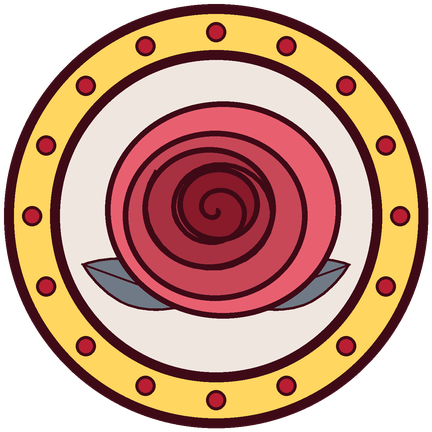
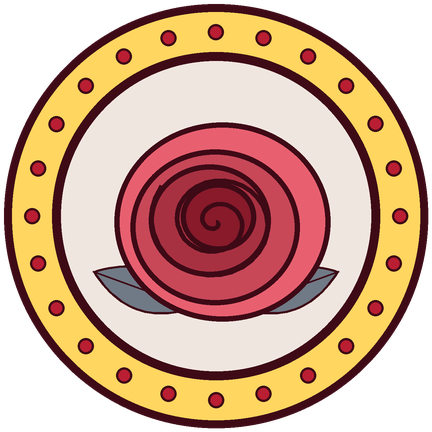
Added sub badges

Changed region(s): [[0.0301, 0.0301, 0.9931, 0.9931]]

diff --git a/index.html b/index.html
@@ -1634,7 +1634,7 @@
 </head>
 <body>
 
-    <nav class="nav" aria-label="Main"><a href="index.html?v=ba89ef8c" aria-current="page">Portfolio</a><a href="usefultools.html?v=ba89ef8c">SeviathsUsefultools</a><a href="seviathstudio.html?v=ba89ef8c">Seviathstudio</a><a href="contacts.html?v=ba89ef8c">Contacts</a></nav>
+    <nav class="nav" aria-label="Main"><a href="index.html?v=a8d3c586" aria-current="page">Portfolio</a><a href="usefultools.html?v=a8d3c586">SeviathsUsefultools</a><a href="seviathstudio.html?v=a8d3c586">Seviathstudio</a><a href="contacts.html?v=a8d3c586">Contacts</a></nav>
 
     <main>
     <header class="hero">
@@ -1733,19 +1733,19 @@
     </div>
         <h3 class="gallery-title">Sub badges</h3>
         <div class="btn-grid">
-      <a class="proj-btn" href="images/twitch/Badges/base_432.png?v=6c8d9ad4" target="_blank" rel="noopener" title="Twitch subscriber badge: Base">Base</a>
-      <a class="proj-btn" href="images/twitch/Badges/2month_432.png?v=eb4caa83" target="_blank" rel="noopener" title="Twitch subscriber badge: 2 month">2 month</a>
-      <a class="proj-btn" href="images/twitch/Badges/3month_432.png?v=aec6b6cf" target="_blank" rel="noopener" title="Twitch subscriber badge: 3 month">3 month</a>
-      <a class="proj-btn" href="images/twitch/Badges/6month_432.png?v=4ee6b80d" target="_blank" rel="noopener" title="Twitch subscriber badge: 6 month">6 month</a>
-      <a class="proj-btn" href="images/twitch/Badges/9month_432.png?v=30346091" target="_blank" rel="noopener" title="Twitch subscriber badge: 9 month">9 month</a>
-      <a class="proj-btn" href="images/twitch/Badges/1year_432.png?v=907eb1c7" target="_blank" rel="noopener" title="Twitch subscriber badge: 1 year">1 year</a>
-      <a class="proj-btn" href="images/twitch/Badges/1_5year_432.png?v=0ede84ff" target="_blank" rel="noopener" title="Twitch subscriber badge: 1.5 year">1.5 year</a>
-      <a class="proj-btn" href="images/twitch/Badges/2year_432.png?v=b0b39e03" target="_blank" rel="noopener" title="Twitch subscriber badge: 2 year">2 year</a>
-      <a class="proj-btn" href="images/twitch/Badges/2_5year_432.png?v=aa414f40" target="_blank" rel="noopener" title="Twitch subscriber badge: 2.5 year">2.5 year</a>
-      <a class="proj-btn" href="images/twitch/Badges/3year_432.png?v=bfcd1a55" target="_blank" rel="noopener" title="Twitch subscriber badge: 3 year">3 year</a>
-      <a class="proj-btn" href="images/twitch/Badges/3_5year_432.png?v=1e58b2a6" target="_blank" rel="noopener" title="Twitch subscriber badge: 3.5 year">3.5 year</a>
-      <a class="proj-btn" href="images/twitch/Badges/4year_432.png?v=b16e611a" target="_blank" rel="noopener" title="Twitch subscriber badge: 4 year">4 year</a>
-      <a class="proj-btn" href="images/twitch/Badges/4_5year_432.png?v=f5512eb8" target="_blank" rel="noopener" title="Twitch subscriber badge: 4.5 year">4.5 year</a>
+      <a class="proj-btn" href="images/twitch/Badges/base_432.png?v=bd57e97c" target="_blank" rel="noopener" title="Twitch subscriber badge: Base">Base</a>
+      <a class="proj-btn" href="images/twitch/Badges/2month_432.png?v=2ace9a87" target="_blank" rel="noopener" title="Twitch subscriber badge: 2 month">2 month</a>
+      <a class="proj-btn" href="images/twitch/Badges/3month_432.png?v=33b65604" target="_blank" rel="noopener" title="Twitch subscriber badge: 3 month">3 month</a>
+      <a class="proj-btn" href="images/twitch/Badges/6month_432.png?v=35d747e4" target="_blank" rel="noopener" title="Twitch subscriber badge: 6 month">6 month</a>
+      <a class="proj-btn" href="images/twitch/Badges/9month_432.png?v=272ed4e0" target="_blank" rel="noopener" title="Twitch subscriber badge: 9 month">9 month</a>
+      <a class="proj-btn" href="images/twitch/Badges/1year_432.png?v=3a0d2492" target="_blank" rel="noopener" title="Twitch subscriber badge: 1 year">1 year</a>
+      <a class="proj-btn" href="images/twitch/Badges/1_5year_432.png?v=70b6e759" target="_blank" rel="noopener" title="Twitch subscriber badge: 1.5 year">1.5 year</a>
+      <a class="proj-btn" href="images/twitch/Badges/2year_432.png?v=bb0c9e7e" target="_blank" rel="noopener" title="Twitch subscriber badge: 2 year">2 year</a>
+      <a class="proj-btn" href="images/twitch/Badges/2_5year_432.png?v=73f71535" target="_blank" rel="noopener" title="Twitch subscriber badge: 2.5 year">2.5 year</a>
+      <a class="proj-btn" href="images/twitch/Badges/3year_432.png?v=73f71535" target="_blank" rel="noopener" title="Twitch subscriber badge: 3 year">3 year</a>
+      <a class="proj-btn" href="images/twitch/Badges/3_5year_432.png?v=0bc9ffaf" target="_blank" rel="noopener" title="Twitch subscriber badge: 3.5 year">3.5 year</a>
+      <a class="proj-btn" href="images/twitch/Badges/4year_432.png?v=301eaa33" target="_blank" rel="noopener" title="Twitch subscriber badge: 4 year">4 year</a>
+      <a class="proj-btn" href="images/twitch/Badges/4_5year_432.png?v=e26e3e9c" target="_blank" rel="noopener" title="Twitch subscriber badge: 4.5 year">4.5 year</a>
       <a class="proj-btn" href="images/twitch/Purple/Badges/1year_432.png?v=0a2b365b" target="_blank" rel="noopener" title="Twitch subscriber badge: Purple 1 year">Purple 1 year</a>
       <a class="proj-btn" href="images/twitch/Purple/Badges/2year_432.png?v=db5a9d3b" target="_blank" rel="noopener" title="Twitch subscriber badge: Purple 2 year">Purple 2 year</a>
       <a class="proj-btn" href="images/twitch/Purple/Badges/3month_432.png?v=433016d0" target="_blank" rel="noopener" title="Twitch subscriber badge: Purple 3 month">Purple 3 month</a>
@@ -1863,7 +1863,7 @@
     </section>
     </main>
 
-    <footer class="footer">&copy; Santa Madara Neilande &middot; <a href="contacts.html?v=ba89ef8c">Contacts</a></footer>
+    <footer class="footer">&copy; Santa Madara Neilande &middot; <a href="contacts.html?v=a8d3c586">Contacts</a></footer>
 
 </body>
 </html>

diff --git a/404.html b/404.html
@@ -1,0 +1,88 @@
+<!DOCTYPE html>
+<html lang="en">
+<head>
+<meta charset="UTF-8">
+<meta name="viewport" content="width=device-width, initial-scale=1.0">
+<title>Page not found - Santa Madara Neilande</title>
+<meta name="description" content="This page or file has moved. Go back to the portfolio.">
+<meta name="keywords" content="Santa Madara Neilande">
+<meta name="author" content="Santa Madara Neilande">
+<meta name="robots" content="index, follow, max-image-preview:large">
+<meta name="theme-color" content="#dcc9c3">
+<link rel="canonical" href="https://petalsofiron.github.io/Seviath/404.html">
+<meta property="og:type" content="website">
+<meta property="og:site_name" content="Santa Madara Neilande">
+<meta property="og:title" content="Page not found - Santa Madara Neilande">
+<meta property="og:description" content="This page or file has moved. Go back to the portfolio.">
+<meta property="og:url" content="https://petalsofiron.github.io/Seviath/404.html">
+<meta property="og:image" content="https://petalsofiron.github.io/Seviath/images/petals-background.png">
+<meta property="og:locale" content="en_US">
+<meta name="twitter:card" content="summary_large_image">
+<meta name="twitter:title" content="Page not found - Santa Madara Neilande">
+<meta name="twitter:description" content="This page or file has moved. Go back to the portfolio.">
+<meta name="twitter:image" content="https://petalsofiron.github.io/Seviath/images/petals-background.png">
+<link rel="preconnect" href="https://fonts.googleapis.com">
+<link rel="preconnect" href="https://fonts.gstatic.com" crossorigin>
+<link href="https://fonts.googleapis.com/css2?family=Fraunces:ital,wght@0,600;0,900;1,500&family=Space+Grotesk:wght@400;500;600&display=swap" rel="stylesheet">
+<link rel="stylesheet" href="style.css?v=86221aae">
+<script type="application/ld+json">
+{
+  "@context": "https://schema.org",
+  "@graph": [
+    {
+      "@type": "Person",
+      "@id": "https://petalsofiron.github.io/Seviath/#person",
+      "name": "Santa Madara Neilande",
+      "url": "https://petalsofiron.github.io/Seviath/",
+      "email": "mailto:santamadaraneilande@gmail.com",
+      "jobTitle": "Graphic Designer, Illustrator, 3D Artist & Developer",
+      "image": "https://petalsofiron.github.io/Seviath/images/petals-background.png",
+      "sameAs": [
+        "https://www.linkedin.com/in/santa-madara-neilande-9388401b6/",
+        "https://github.com/PetalsOfIron"
+      ],
+      "knowsAbout": [
+        "Graphic design",
+        "Twitch design",
+        "Illustration",
+        "3D art",
+        "DevOps",
+        "Software development"
+      ]
+    },
+    {
+      "@type": "WebSite",
+      "@id": "https://petalsofiron.github.io/Seviath/#website",
+      "url": "https://petalsofiron.github.io/Seviath/",
+      "name": "Santa Madara Neilande - Portfolio",
+      "inLanguage": "en",
+      "publisher": {
+        "@id": "https://petalsofiron.github.io/Seviath/#person"
+      }
+    }
+  ]
+}
+</script>
+</head>
+<body>
+
+    <nav class="nav" aria-label="Main"><a href="index.html?v=a8d3c586">Portfolio</a><a href="usefultools.html?v=a8d3c586">SeviathsUsefultools</a><a href="seviathstudio.html?v=a8d3c586">Seviathstudio</a><a href="contacts.html?v=a8d3c586">Contacts</a></nav>
+
+    <main>
+    <header class="hero">
+        <h1 class="hero-name">404</h1>
+        <p class="hero-tagline">That file has moved or no longer exists.</p>
+    </header>
+    <section class="section">
+        <div class="card">
+            <p>If you followed an old link or an old copy of this page is still saved in your browser, press
+            <strong>Ctrl + F5</strong> to reload it, or go back to the portfolio and open the file again.</p>
+            <div class="btn-grid"><a class="proj-btn" href="index.html">Back to the portfolio</a></div>
+        </div>
+    </section>
+    </main>
+
+    <footer class="footer">&copy; Santa Madara Neilande &middot; <a href="contacts.html?v=a8d3c586">Contacts</a></footer>
+
+</body>
+</html>

diff --git a/seviathstudio.html b/seviathstudio.html
@@ -82,7 +82,7 @@
 </head>
 <body>
 
-    <nav class="nav" aria-label="Main"><a href="index.html?v=ba89ef8c">Portfolio</a><a href="usefultools.html?v=ba89ef8c">SeviathsUsefultools</a><a href="seviathstudio.html?v=ba89ef8c" aria-current="page">Seviathstudio</a><a href="contacts.html?v=ba89ef8c">Contacts</a></nav>
+    <nav class="nav" aria-label="Main"><a href="index.html?v=a8d3c586">Portfolio</a><a href="usefultools.html?v=a8d3c586">SeviathsUsefultools</a><a href="seviathstudio.html?v=a8d3c586" aria-current="page">Seviathstudio</a><a href="contacts.html?v=a8d3c586">Contacts</a></nav>
 
     <main>
     <header class="hero">
@@ -117,7 +117,7 @@
     </section>
     </main>
 
-    <footer class="footer">&copy; Santa Madara Neilande &middot; <a href="contacts.html?v=ba89ef8c">Contacts</a></footer>
+    <footer class="footer">&copy; Santa Madara Neilande &middot; <a href="contacts.html?v=a8d3c586">Contacts</a></footer>
 
 </body>
 </html>

diff --git a/usefultools.html b/usefultools.html
@@ -85,7 +85,7 @@
 </head>
 <body>
 
-    <nav class="nav" aria-label="Main"><a href="index.html?v=ba89ef8c">Portfolio</a><a href="usefultools.html?v=ba89ef8c" aria-current="page">SeviathsUsefultools</a><a href="seviathstudio.html?v=ba89ef8c">Seviathstudio</a><a href="contacts.html?v=ba89ef8c">Contacts</a></nav>
+    <nav class="nav" aria-label="Main"><a href="index.html?v=a8d3c586">Portfolio</a><a href="usefultools.html?v=a8d3c586" aria-current="page">SeviathsUsefultools</a><a href="seviathstudio.html?v=a8d3c586">Seviathstudio</a><a href="contacts.html?v=a8d3c586">Contacts</a></nav>
 
     <main>
     <header class="hero">
@@ -126,7 +126,7 @@
     </section>
     </main>
 
-    <footer class="footer">&copy; Santa Madara Neilande &middot; <a href="contacts.html?v=ba89ef8c">Contacts</a></footer>
+    <footer class="footer">&copy; Santa Madara Neilande &middot; <a href="contacts.html?v=a8d3c586">Contacts</a></footer>
 
 </body>
 </html>

diff --git a/contacts.html b/contacts.html
@@ -74,7 +74,7 @@
 </head>
 <body>
 
-    <nav class="nav" aria-label="Main"><a href="index.html?v=ba89ef8c">Portfolio</a><a href="usefultools.html?v=ba89ef8c">SeviathsUsefultools</a><a href="seviathstudio.html?v=ba89ef8c">Seviathstudio</a><a href="contacts.html?v=ba89ef8c" aria-current="page">Contacts</a></nav>
+    <nav class="nav" aria-label="Main"><a href="index.html?v=a8d3c586">Portfolio</a><a href="usefultools.html?v=a8d3c586">SeviathsUsefultools</a><a href="seviathstudio.html?v=a8d3c586">Seviathstudio</a><a href="contacts.html?v=a8d3c586" aria-current="page">Contacts</a></nav>
 
     <main>
     <header class="hero">
@@ -99,7 +99,7 @@
     </section>
     </main>
 
-    <footer class="footer">&copy; Santa Madara Neilande &middot; <a href="contacts.html?v=ba89ef8c">Contacts</a></footer>
+    <footer class="footer">&copy; Santa Madara Neilande &middot; <a href="contacts.html?v=a8d3c586">Contacts</a></footer>
 
 </body>
 </html>

diff --git a/tools/make_rose.py b/tools/make_rose.py
@@ -136,14 +136,15 @@ def panel(title, symbol):
 
 # ------------------------------------------------------------------------------------------------- roses
 
-def rose(d, S, cx, cy, r, layers=5, leaves=True):
+def rose(d, S, cx, cy, r, layers=5, leaves=True, pal=None):
+    c_light, c_dark = pal if pal else (RED_L, RED_D)
     if leaves:
         leaf(d, S, cx - r * 0.2, cy + r * 0.8, r * 1.0, r * 0.2, math.radians(-160), lw=int(r * 0.07))
         leaf(d, S, cx + r * 0.2, cy + r * 0.8, r * 1.0, r * 0.2, math.radians(-20), lw=int(r * 0.07))
     for i in range(layers):
         k = 1 - i / (layers + 0.6)
         rr = r * k
-        col = lerp(RED_L, RED_D, i / max(1, layers - 1) * 0.85)
+        col = lerp(c_light, c_dark, i / max(1, layers - 1) * 0.85)
         ox, oy = math.cos(i * 1.7) * r * 0.06, math.sin(i * 1.7) * r * 0.05
         d.ellipse(((cx + ox - rr) * S, (cy + oy - rr * 0.92) * S, (cx + ox + rr) * S, (cy + oy + rr * 0.92) * S),
                   fill=col + (255,), outline=INK + (255,), width=max(1, int(r * 0.05 * S)))
@@ -156,27 +157,88 @@ def rose(d, S, cx, cy, r, layers=5, leaves=True):
     d.line(pts, fill=INK + (255,), width=max(1, int(r * 0.045 * S)), joint="curve")
 
 
+def tulip(d, S, cx, cy, r):
+    for sx, rot in ((-1, -0.35), (1, 0.35)):
+        pts = []
+        for i in range(30):
+            u = i / 29
+            pts.append((cx + sx * r * 0.34 * math.sin(math.pi * u) ** 0.8 + math.sin(rot) * (1 - u) * r * 0.5, cy + r * 0.2 - u * r * 1.5))
+        d.polygon([(x * S, y * S) for x, y in pts], fill=RED_D + (255,), outline=INK + (255,), width=max(1, int(r * 0.05 * S)))
+    pts = [(cx - r * 0.28, cy + r * 0.2), (cx, cy - r * 1.35), (cx + r * 0.28, cy + r * 0.2), (cx, cy + r * 0.38)]
+    d.polygon([(x * S, y * S) for x, y in pts], fill=RED + (255,), outline=INK + (255,), width=max(1, int(r * 0.05 * S)))
+
+
+def drop(d, S, cx, cy, w, h, fill=RED):
+    pts = []
+    for i in range(32):
+        u = i / 31
+        pts.append((cx - w * math.sin(math.pi * u) ** 0.9, cy - h * u))
+    for i in range(31, -1, -1):
+        u = i / 31
+        pts.append((cx + w * math.sin(math.pi * u) ** 0.9, cy - h * u))
+    d.polygon([(x * S, y * S) for x, y in pts], fill=fill + (255,), outline=INK + (255,), width=max(1, int(w * 0.16 * S)))
+
+
+def stem(d, S, cx, y0, y1, w, leaves=True, ls=1.0):
+    d.line([(cx * S, y0 * S), (cx * S, y1 * S)], fill=INK + (255,), width=int(w * S))
+    if leaves:
+        leaf(d, S, cx, y0 - 8, 92 * ls, 24 * ls, math.radians(-150), lw=7)
+        leaf(d, S, cx, y0 - 30, 92 * ls, 24 * ls, math.radians(-30), lw=7)
+
+
 def badge(tier, size=432):
     name, idx, ring = tier
     k = size / 432
     c = size / 2
+    gold = idx >= 5
+    ring_col = GOLD if gold else (150, 158, 172)
 
     def fn(d, S):
         d.ellipse((4 * S, 4 * S, (size - 4) * S, (size - 4) * S), fill=INK + (255,))
-        d.ellipse((14 * S, 14 * S, (size - 14) * S, (size - 14) * S), fill=ring[0] + (255,))
-        d.ellipse((50 * S, 50 * S, (size - 50) * S, (size - 50) * S), fill=INK + (255,))
-        d.ellipse((60 * S, 60 * S, (size - 60) * S, (size - 60) * S), fill=(240, 230, 224, 255))
-        n = 8 + idx
-        for i in range(n):
-            a = 2 * math.pi * i / n - math.pi / 2
-            berry_dot(d, S, c + math.cos(a) * (size / 2 - 32 * k), c + math.sin(a) * (size / 2 - 32 * k), 10 * k)
-        rose(d, S, c, c - 6 * k, 118 * k, layers=2 + idx // 3)
+        d.ellipse((12 * S, 12 * S, (size - 12) * S, (size - 12) * S), fill=ring_col + (255,))
+        d.ellipse((52 * S, 52 * S, (size - 52) * S, (size - 52) * S), fill=INK + (255,))
+        d.ellipse((61 * S, 61 * S, (size - 61) * S, (size - 61) * S), fill=(240, 230, 224, 255))
+        if idx >= 8:  # ring dots
+            n = 24
+            for i in range(n):
+                a = 2 * math.pi * i / n
+                berry_dot(d, S, c + math.cos(a) * (size / 2 - 32 * k), c + math.sin(a) * (size / 2 - 32 * k), 8 * k)
+        if name == "base":
+            leaf(d, S, c, c - 74 * k, 70 * k, 22 * k, math.radians(-155), lw=7)
+            leaf(d, S, c, c - 74 * k, 70 * k, 22 * k, math.radians(-25), lw=7)
+            d.ellipse(((c - 92 * k) * S, (c - 84 * k) * S, (c + 92 * k) * S, (c + 100 * k) * S), fill=RED + (255,), outline=INK + (255,), width=int(9 * S * k))
+            d.arc(((c - 66 * k) * S, (c - 60 * k) * S, (c + 66 * k) * S, (c + 76 * k) * S), 215, 262, fill=RED_L + (255,), width=int(7 * S * k))
+        elif name == "2month":
+            stem(d, S, c, c + 100 * k, c - 70 * k, 9 * k, ls=0.9 * k)
+        elif name == "3month":
+            stem(d, S, c + 0, c + 110 * k, c - 10 * k, 9 * k, ls=0.9 * k)
+            drop(d, S, c, c - 20 * k, 30 * k, 90 * k)
+        elif name == "6month":
+            stem(d, S, c, c + 112 * k, c - 4 * k, 9 * k, ls=1.0 * k)
+            drop(d, S, c, c - 14 * k, 40 * k, 112 * k)
+            drop(d, S, c + 16 * k, c - 24 * k, 22 * k, 90 * k, fill=RED_D)
+        elif name == "9month":
+            stem(d, S, c, c + 118 * k, c + 6 * k, 9 * k, ls=1.0 * k)
+            tulip(d, S, c, c - 6 * k, 96 * k)
+        else:
+            if name in ("1_5year",):
+                berry_dot(d, S, c - 108 * k, c + 100 * k, 14 * k); berry_dot(d, S, c + 108 * k, c + 100 * k, 14 * k)
+            r_ = 108 * k
+            if name == "4_5year":
+                rose(d, S, c, c + 6 * k, r_, layers=4, pal=((252, 226, 130), (176, 120, 20)))
+            else:
+                rose(d, S, c, c + 6 * k, r_, layers=4 if idx >= 6 else 3)
+            if name in ("2year", "4year", "4_5year"):
+                sparkle(d, S, c - 130 * k, c - 100 * k, 26 * k); sparkle(d, S, c + 130 * k, c - 100 * k, 26 * k)
+            if name in ("3_5year", "4year", "4_5year"):
+                pts = [(c - 56 * k, c - 118 * k), (c - 56 * k, c - 160 * k), (c - 28 * k, c - 138 * k), (c, c - 172 * k), (c + 28 * k, c - 138 * k), (c + 56 * k, c - 160 * k), (c + 56 * k, c - 118 * k)]
+                d.polygon([(x * S, y * S) for x, y in pts], fill=(255, 208, 90, 255), outline=INK + (255,), width=int(6 * S * k))
     return layer((size, size), fn)
 
 
-BADGES = [("base", 0, [(196, 204, 214)]), ("2month", 1, [GOLD]), ("3month", 2, [GOLD]), ("6month", 3, [GOLD]), ("9month", 4, [GOLD]),
-          ("1year", 5, [GOLD]), ("1_5year", 6, [GOLD]), ("2year", 7, [GOLD]), ("2_5year", 8, [GOLD]), ("3year", 9, [GOLD]),
-          ("3_5year", 10, [GOLD]), ("4year", 11, [GOLD]), ("4_5year", 12, [GOLD])]
+BADGES = [("base", 0, None), ("2month", 1, None), ("3month", 2, None), ("6month", 3, None), ("9month", 4, None),
+          ("1year", 5, None), ("1_5year", 6, None), ("2year", 7, None), ("2_5year", 8, None), ("3year", 9, None),
+          ("3_5year", 10, None), ("4year", 11, None), ("4_5year", 12, None)]
 
 
 def flair(tier, size=432):

diff --git a/generate.py b/generate.py
@@ -817,6 +817,21 @@ def main():
                       "url": f"{base}/seviathstudio.html", "downloadUrl": s["download_url"],
                       "author": {"@id": f"{base}/#person"},
                       "offers": {"@type": "Offer", "price": "0", "priceCurrency": "EUR"}}),
+        # friendly page for old or mistyped links (GitHub Pages shows 404.html for missing files)
+        "404.html": layout(
+            site, filename="404.html", title=f"Page not found - {name}",
+            description="This page or file has moved. Go back to the portfolio.", keywords=name,
+            body='''<header class="hero">
+        <h1 class="hero-name">404</h1>
+        <p class="hero-tagline">That file has moved or no longer exists.</p>
+    </header>
+    <section class="section">
+        <div class="card">
+            <p>If you followed an old link or an old copy of this page is still saved in your browser, press
+            <strong>Ctrl + F5</strong> to reload it, or go back to the portfolio and open the file again.</p>
+            <div class="btn-grid"><a class="proj-btn" href="index.html">Back to the portfolio</a></div>
+        </div>
+    </section>'''),
         # old URL kept alive, points search engines to the new home
         "portfolio.html": f"""<!DOCTYPE html>
 <html lang="en"><head><meta charset="UTF-8"><title>Portfolio - {esc(name)}</title>

diff --git a/tools/nb_extract.py b/tools/nb_extract.py
@@ -7,7 +7,7 @@ SRC = "C:/Users/SaphiresSilver/Projects/portfolio/images/Northbeamlogo.png"
 
 def cutout():
     a = np.asarray(Image.open(SRC).convert("RGB")).astype(np.float32)
-    bg = a[6, :, :]                                   # background only changes left to right
+    bg = a[40, :, :]                                   # background only changes left to right
     d = np.abs(a - bg[None, :, :]).max(-1)
     alpha = np.clip((d - 7) / 20, 0, 1)
     safe = np.maximum(alpha, 1e-3)[..., None]
